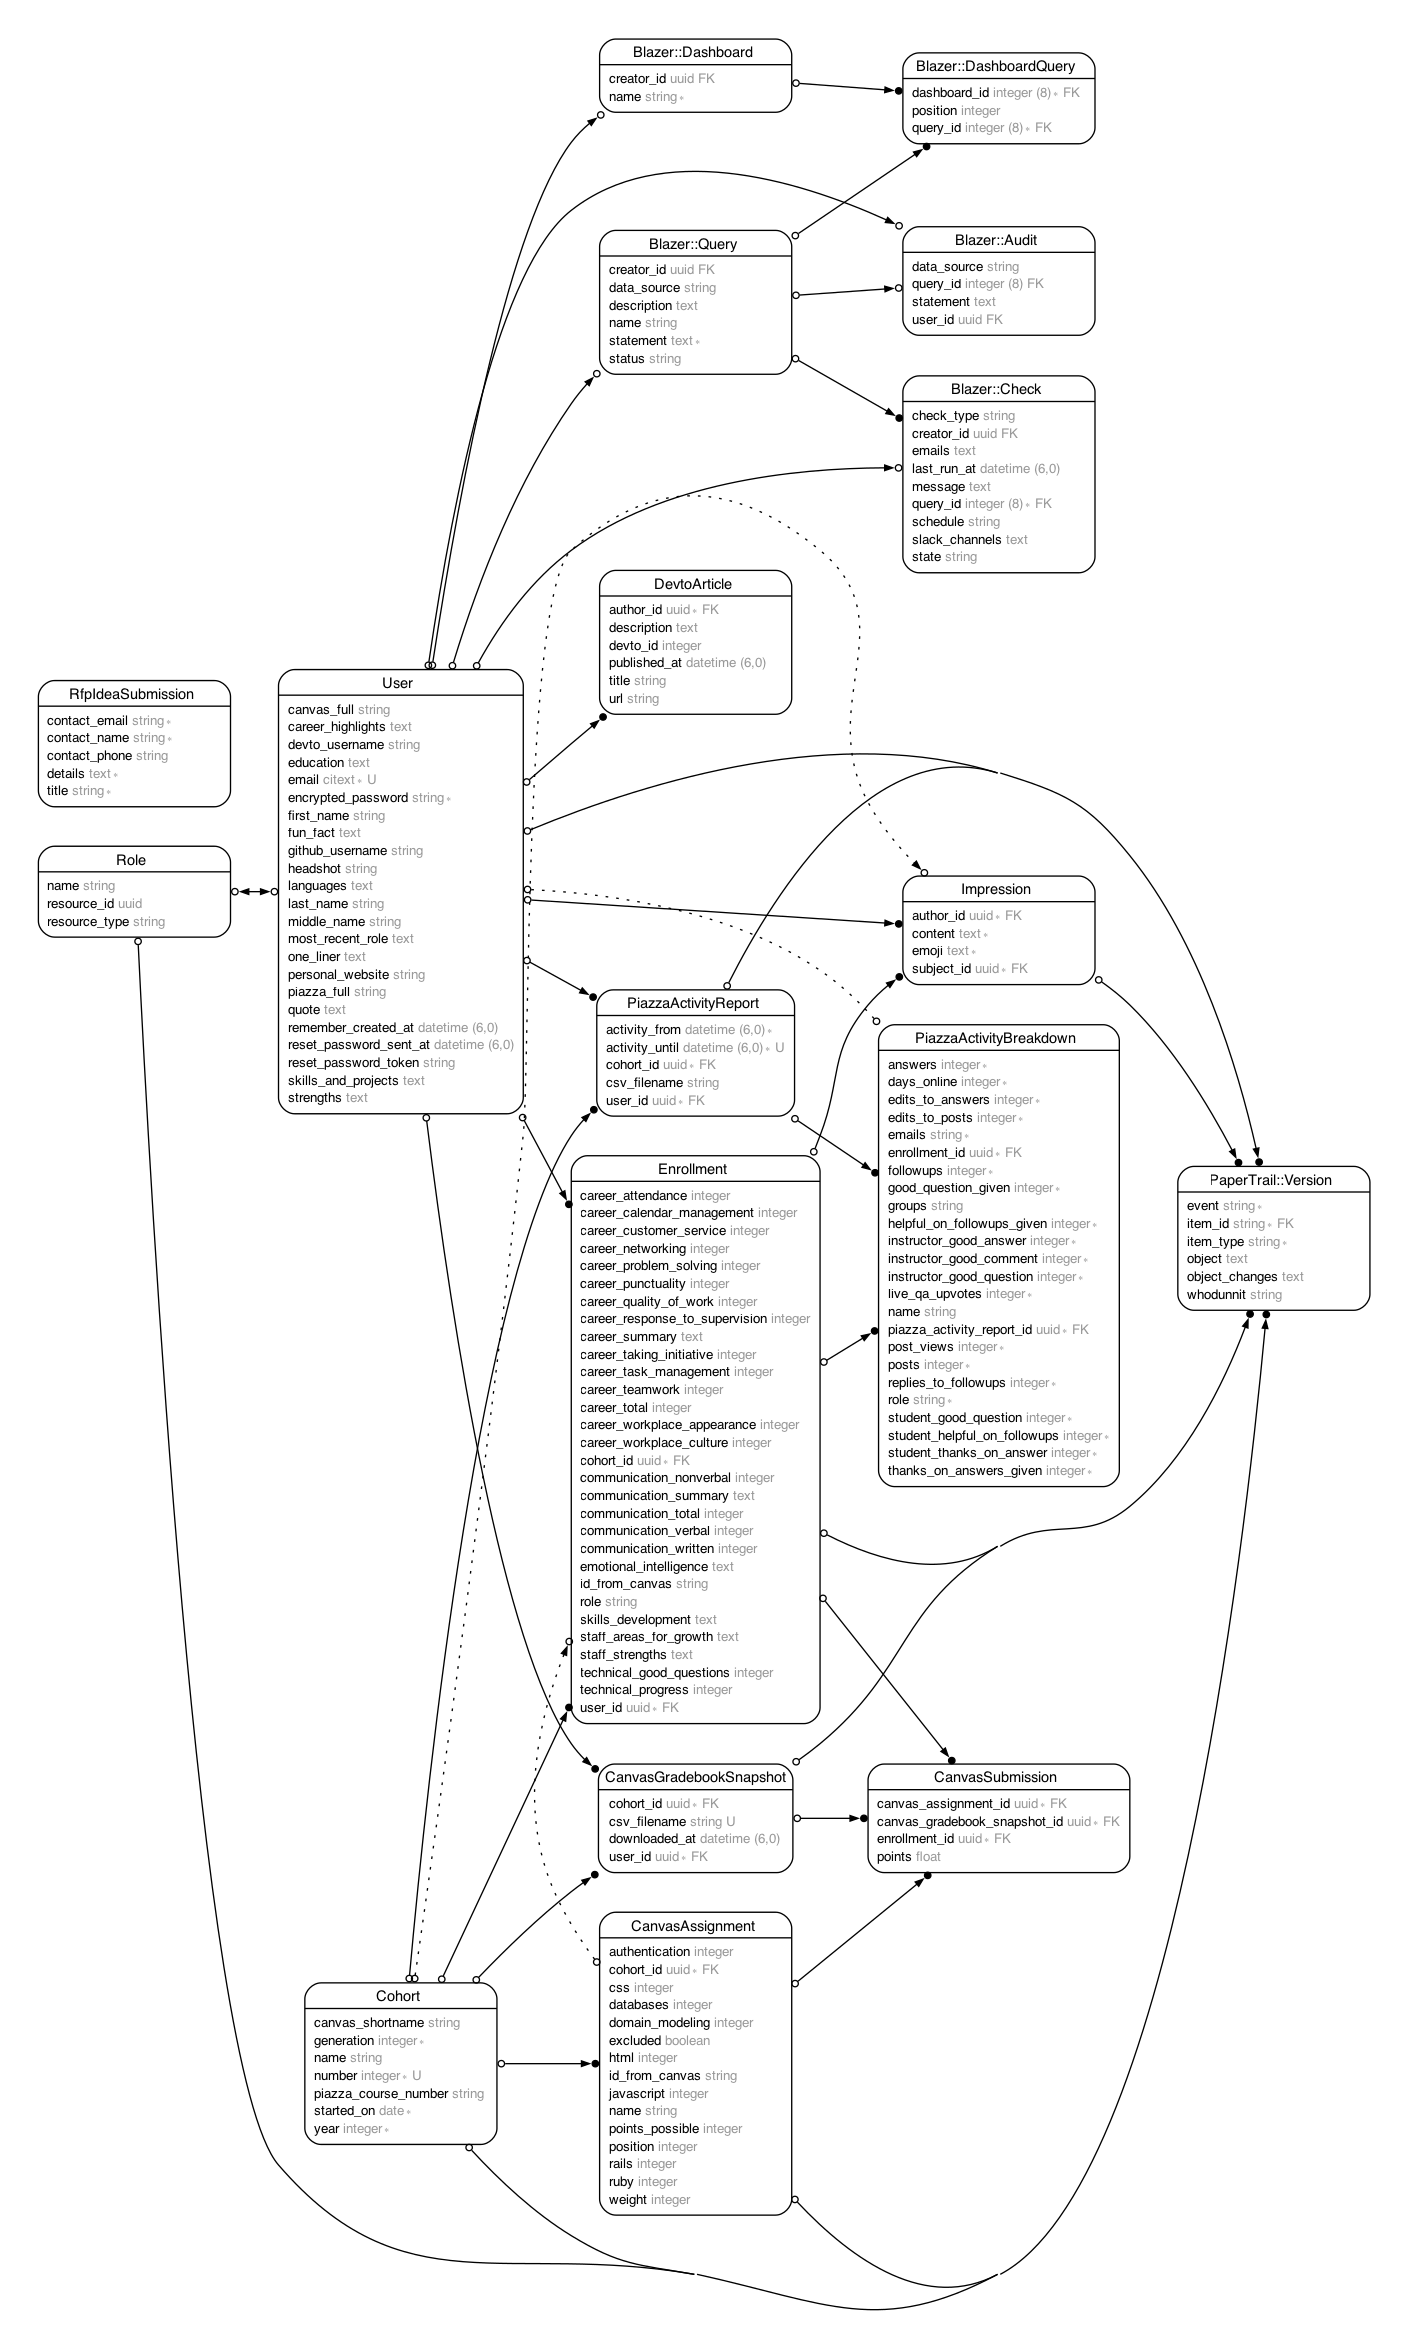
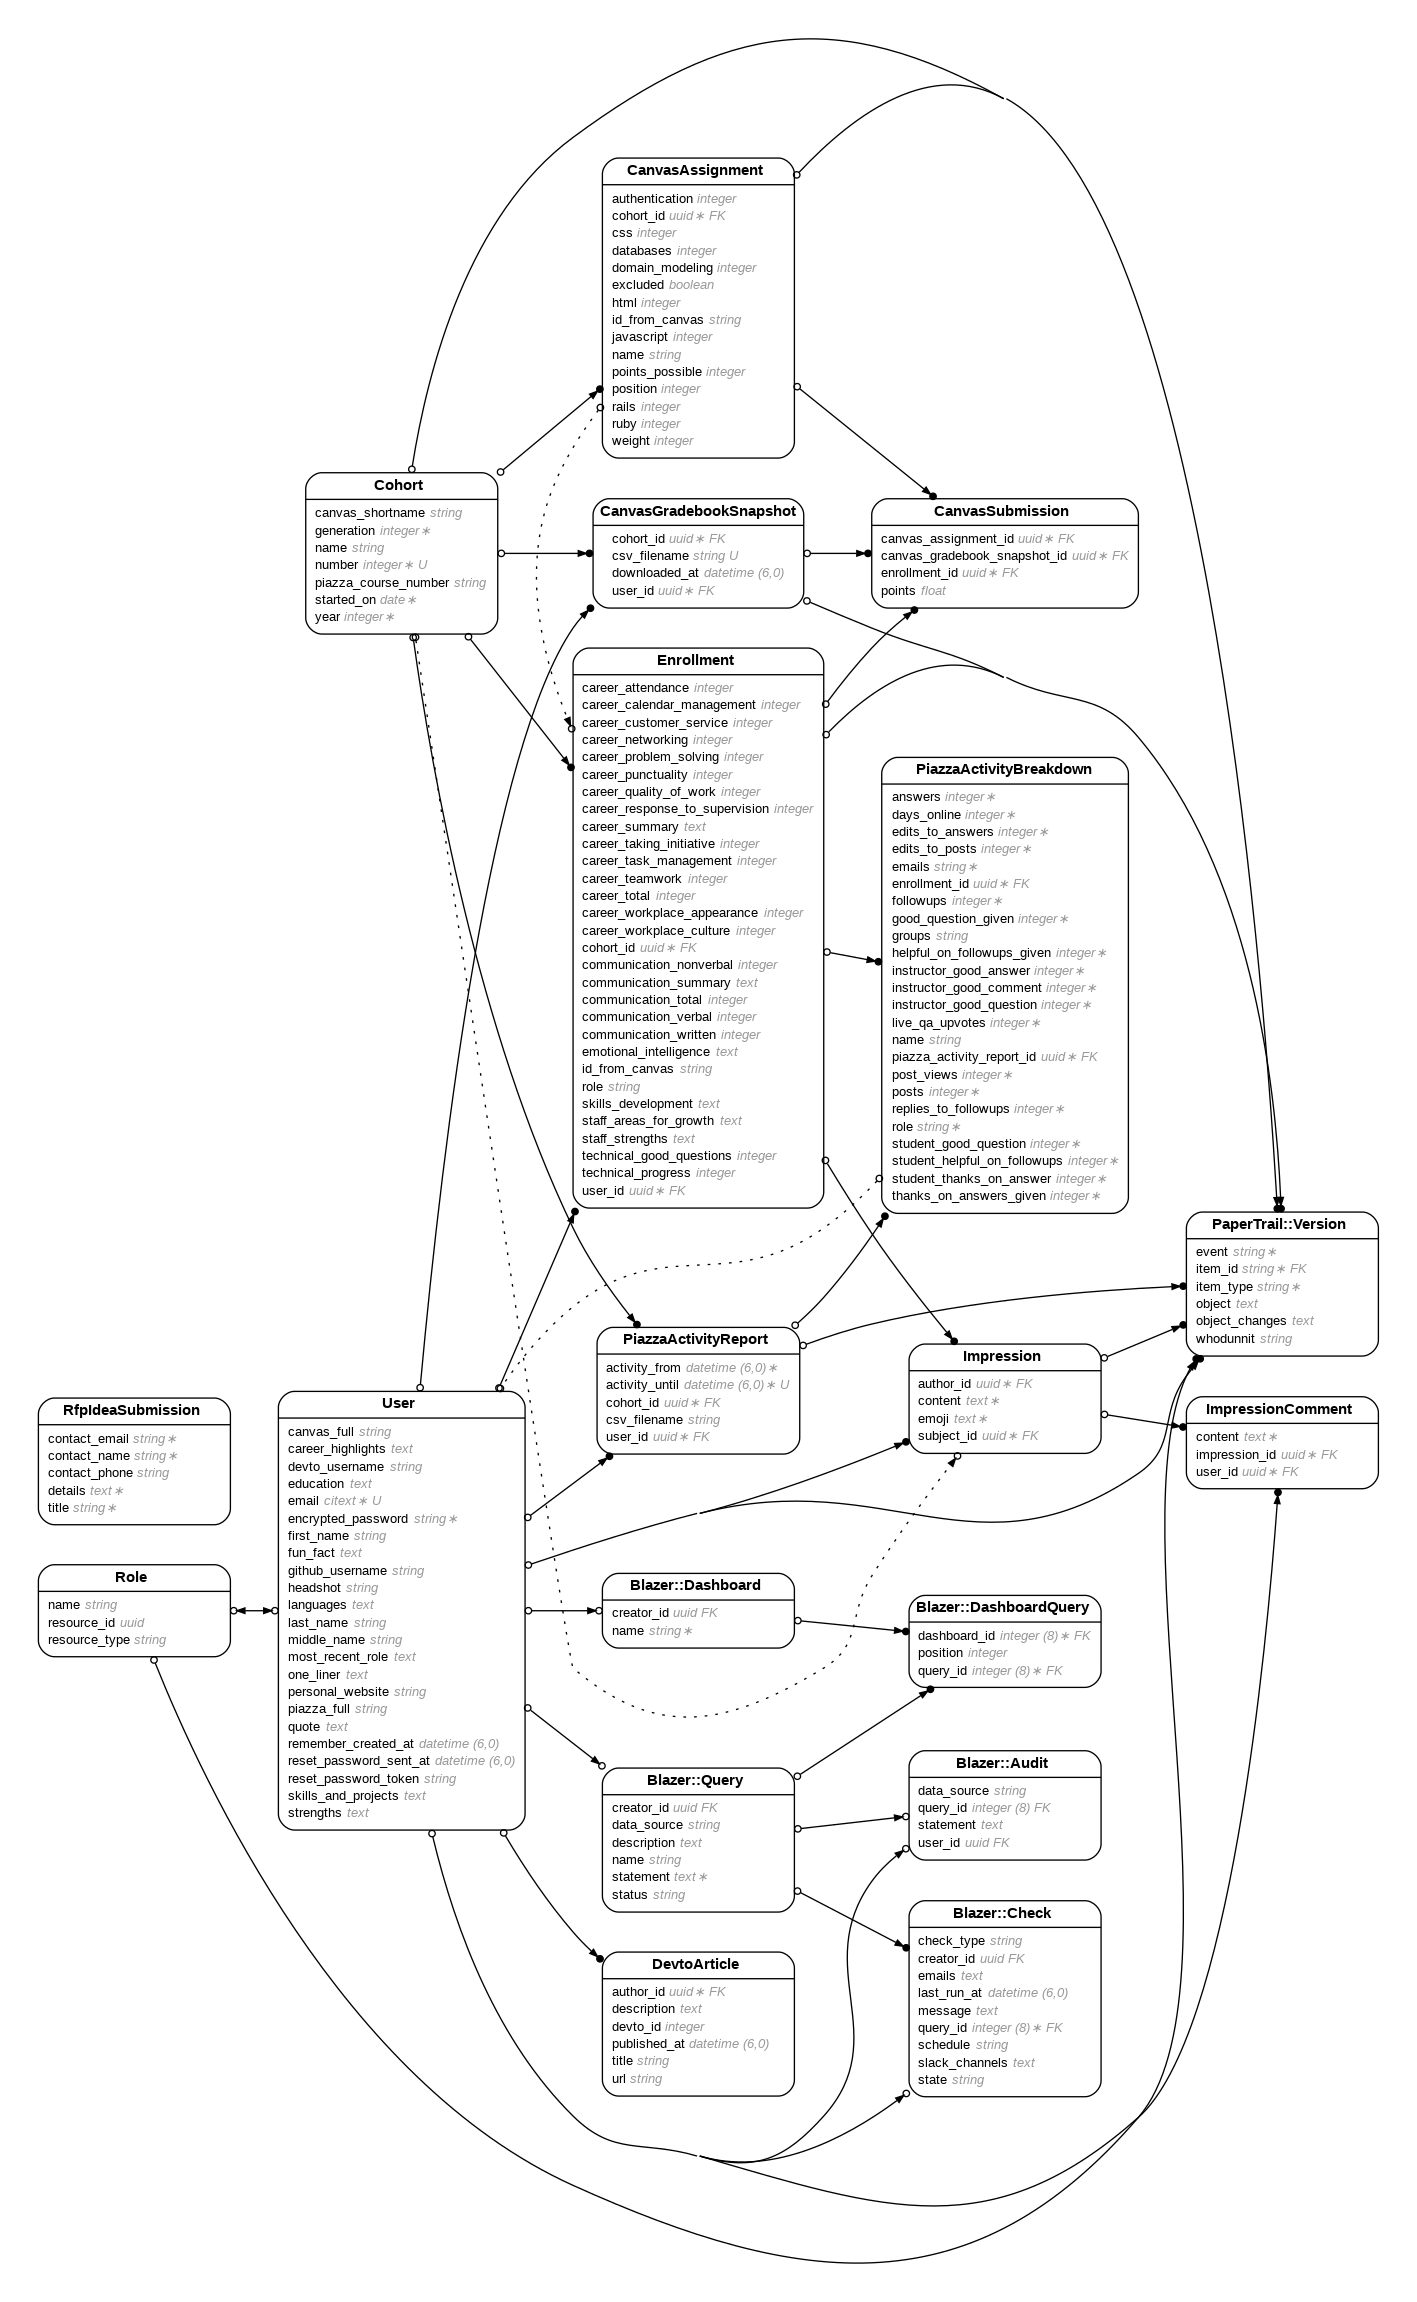
Added ability to create and delete comments on impressions

diff --git a/db/schema.rb b/db/schema.rb
@@ -10,7 +10,7 @@
 #
 # It's strongly recommended that you check this file into your version control system.
 
-ActiveRecord::Schema[7.0].define(version: 2024_02_22_203842) do
+ActiveRecord::Schema[7.0].define(version: 2024_08_14_152917) do
   # These are extensions that must be enabled in order to support this database
   enable_extension "citext"
   enable_extension "pgcrypto"
@@ -177,6 +177,16 @@ ActiveRecord::Schema[7.0].define(version: 2024_02_22_203842) do
     t.index ["id_from_canvas"], name: "index_enrollments_on_id_from_canvas"
     t.index ["user_id", "cohort_id"], name: "index_enrollments_on_user_id_and_cohort_id", unique: true
     t.index ["user_id"], name: "index_enrollments_on_user_id"
+  end
+
+  create_table "impression_comments", id: :uuid, default: -> { "gen_random_uuid()" }, force: :cascade do |t|
+    t.uuid "impression_id", null: false
+    t.uuid "user_id", null: false
+    t.text "content", null: false
+    t.datetime "created_at", null: false
+    t.datetime "updated_at", null: false
+    t.index ["impression_id"], name: "index_impression_comments_on_impression_id"
+    t.index ["user_id"], name: "index_impression_comments_on_user_id"
   end
 
   create_table "impressions", id: :uuid, default: -> { "gen_random_uuid()" }, force: :cascade do |t|

diff --git a/app/controllers/impression_comments_controller.rb b/app/controllers/impression_comments_controller.rb
@@ -1,0 +1,39 @@
+class ImpressionCommentsController < ApplicationController
+  before_action :set_impression
+  before_action :set_cohort
+
+  # POST /impressions/:impression_id/impression_comments
+  def create
+    @comment = @impression.impression_comments.new(impression_comment_params)
+    @comment.user = current_user
+    authorize @comment
+
+    if @comment.save
+      redirect_to "/cohort/:cohort_id/impressions/:id", notice: "Comment was successfully added."
+    else
+      redirect_to "/cohort/:cohort_id/impressions/:id", alert: "Failed to add comment."
+    end
+  end
+
+  # DELETE /impressions/:impression_id/impression_comments/:id
+  def destroy
+    @comment = @impression.impression_comments.find(params[:id])
+    authorize @comment
+    @comment.destroy
+    redirect_to "/cohort/:cohort_id/impressions/:id", notice: "Comment was successfully deleted."
+  end
+
+  private
+
+  def set_cohort
+    @cohort = Cohort.find(params.fetch(:cohort_id)) if params.dig(:cohort_id).present?
+  end
+
+  def set_impression
+    @impression = Impression.find(params[:impression_id])
+  end
+
+  def impression_comment_params
+    params.require(:impression_comment).permit(:content)
+  end
+end

diff --git a/config/routes.rb b/config/routes.rb
@@ -1,7 +1,8 @@
-require 'sidekiq/web'
-require 'sidekiq/cron/web'
+require "sidekiq/web"
+require "sidekiq/cron/web"
 
 Rails.application.routes.draw do
+  get "impression_comments/create"
   constraints subdomain: "dashboard" do
     authenticate :user, ->(user) { ApplicationPolicy.new(user, nil).admin_panel_accessible? } do
       mount RailsAdmin::Engine, at: "admin", as: "rails_admin"
@@ -21,8 +22,8 @@ Rails.application.routes.draw do
       resources :canvas_gradebook_snapshots
       resources :enrollments, module: :cohort do
         member do
-          get 'overview'
-          get 'snapshot'
+          get "overview"
+          get "snapshot"
         end
       end
       resources :impressions, module: :cohort do
@@ -34,6 +35,7 @@ Rails.application.routes.draw do
     end
 
     resources :impressions do
+      resources :impression_comments, only: [:create, :edit, :update, :destroy]
       get :search, to: "impressions#search", on: :collection
     end
 

diff --git a/app/policies/impression_comment_policy.rb b/app/policies/impression_comment_policy.rb
@@ -1,0 +1,43 @@
+class ImpressionCommentPolicy < ApplicationPolicy
+  class Scope < Scope
+    def resolve
+      if user.admin? || user.instructor?
+        scope.all
+      else
+        scope.where(author_id: user.id)
+      end
+    end
+  end
+
+  def index?
+    user.admin? || user.instructor? || user.teaching_assistant? || user.staff?
+  end
+
+  def show?
+    user.admin? || user.instructor? || user.teaching_assistant? || (record.is_a?(Impression) && user == record.author)
+  end
+
+  def create?
+    new?
+  end
+
+  def new?
+    user.admin? || user.instructor? || user.teaching_assistant? || user.staff?
+  end
+
+  def update?
+    edit?
+  end
+
+  def edit?
+    user.admin? || (record.is_a?(Impression) && user == record.author)
+  end
+
+  def destroy?
+    user.admin? || user.instructor? || (record.is_a?(Impression) && user == record.author)
+  end
+
+  def search?
+    new?
+  end
+end

diff --git a/spec/models/impression_comment_spec.rb b/spec/models/impression_comment_spec.rb
@@ -1,0 +1,21 @@
+# == Schema Information
+#
+# Table name: impression_comments
+#
+#  id            :uuid             not null, primary key
+#  content       :text             not null
+#  created_at    :datetime         not null
+#  updated_at    :datetime         not null
+#  impression_id :uuid             not null
+#  user_id       :uuid             not null
+#
+# Indexes
+#
+#  index_impression_comments_on_impression_id  (impression_id)
+#  index_impression_comments_on_user_id        (user_id)
+#
+require 'rails_helper'
+
+RSpec.describe ImpressionComment, type: :model do
+  pending "add some examples to (or delete) #{__FILE__}"
+end

diff --git a/app/models/impression_comment.rb b/app/models/impression_comment.rb
@@ -1,0 +1,22 @@
+# == Schema Information
+#
+# Table name: impression_comments
+#
+#  id            :uuid             not null, primary key
+#  content       :text             not null
+#  created_at    :datetime         not null
+#  updated_at    :datetime         not null
+#  impression_id :uuid             not null
+#  user_id       :uuid             not null
+#
+# Indexes
+#
+#  index_impression_comments_on_impression_id  (impression_id)
+#  index_impression_comments_on_user_id        (user_id)
+#
+class ImpressionComment < ApplicationRecord
+  belongs_to :impression
+  belongs_to :user
+
+  validates :content, presence: true
+end

diff --git a/app/models/impression.rb b/app/models/impression.rb
@@ -21,12 +21,15 @@
 #  fk_rails_...  (subject_id => enrollments.id)
 #
 class Impression < ApplicationRecord
-  include Emojiable, Ransackable, Slackable
+  include Slackable
+  include Ransackable
+  include Emojiable
 
   has_paper_trail skip: [:created_at, :updated_at]
 
-  belongs_to :author, class_name: "User", foreign_key: "author_id"
-  belongs_to :subject, class_name: "Enrollment", foreign_key: "subject_id"
+  belongs_to :author, class_name: "User"
+  belongs_to :subject, class_name: "Enrollment"
+  has_many :impression_comments, dependent: :destroy
 
   validates :content, presence: true
 

diff --git a/spec/helpers/impression_comments_helper_spec.rb b/spec/helpers/impression_comments_helper_spec.rb
@@ -1,0 +1,15 @@
+require 'rails_helper'
+
+# Specs in this file have access to a helper object that includes
+# the ImpressionCommentsHelper. For example:
+#
+# describe ImpressionCommentsHelper do
+#   describe "string concat" do
+#     it "concats two strings with spaces" do
+#       expect(helper.concat_strings("this","that")).to eq("this that")
+#     end
+#   end
+# end
+RSpec.describe ImpressionCommentsHelper, type: :helper do
+  pending "add some examples to (or delete) #{__FILE__}"
+end

diff --git a/db/migrate/20240814152917_create_impression_comments.rb b/db/migrate/20240814152917_create_impression_comments.rb
@@ -1,0 +1,13 @@
+class CreateImpressionComments < ActiveRecord::Migration[7.0]
+  def change
+    create_table :impression_comments, id: :uuid do |t|
+      t.uuid :impression_id, null: false, foreign_key: true
+      t.uuid :user_id, null: false, foreign_key: true
+      t.text :content, null: false
+      t.timestamps
+    end
+
+    add_index :impression_comments, :impression_id
+    add_index :impression_comments, :user_id
+  end
+end

diff --git a/spec/requests/impression_comments_spec.rb b/spec/requests/impression_comments_spec.rb
@@ -1,0 +1,11 @@
+require 'rails_helper'
+
+RSpec.describe "ImpressionComments", type: :request do
+  describe "GET /create" do
+    it "returns http success" do
+      get "/impression_comments/create"
+      expect(response).to have_http_status(:success)
+    end
+  end
+
+end

diff --git a/spec/views/impression_comments/create.html.erb_spec.rb b/spec/views/impression_comments/create.html.erb_spec.rb
@@ -1,0 +1,5 @@
+require 'rails_helper'
+
+RSpec.describe "impression_comments/create.html.erb", type: :view do
+  pending "add some examples to (or delete) #{__FILE__}"
+end

diff --git a/app/helpers/impression_comments_helper.rb b/app/helpers/impression_comments_helper.rb
@@ -1,0 +1,2 @@
+module ImpressionCommentsHelper
+end
